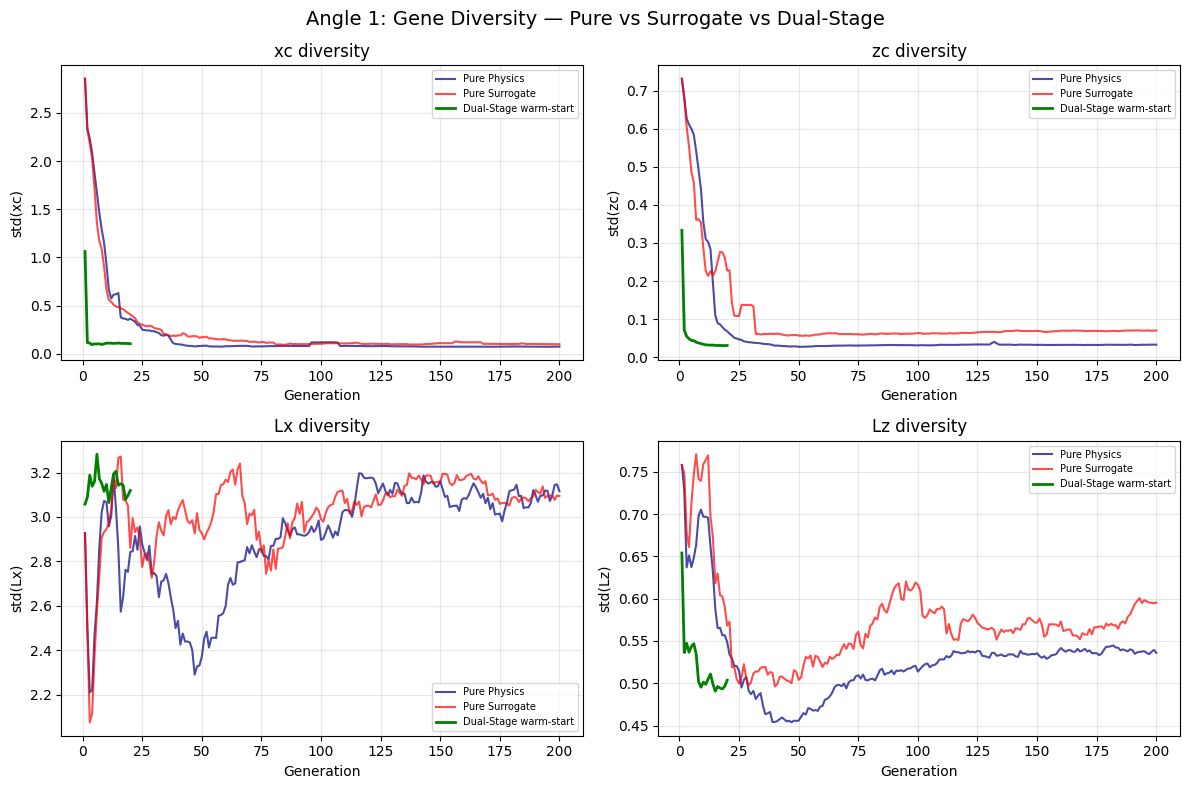
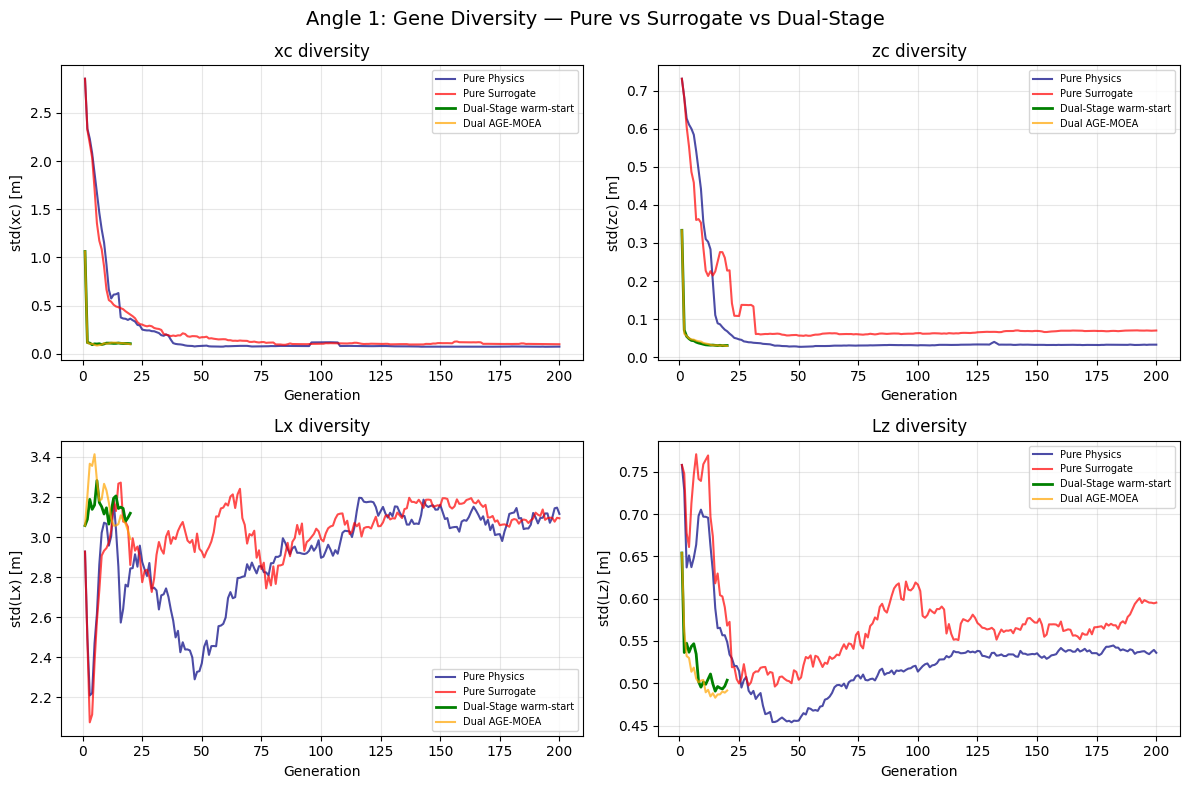
Merge REPORT + STAGE_SUMMARY; update all data to latest 4-arm results; delete STAGE_SUMMARY

diff --git a/REPORT.md b/REPORT.md
@@ -1,38 +1,35 @@
-# EM Window Optimization — Progress Report: from AGE-MOEA onward
+# EM Window Optimization — Comprehensive Report
 
-> 承接前序工作（KDE 经验权重 + 多高度网格 + 自阻塞模型 + NSGA-II Pareto 前沿）。
+> KDE 经验权重 + 多高度网格 + 自阻塞模型 + NSGA-II Pareto 前沿 + 双阶段代理优化。
 
 ---
 
-## 1. 多算法互证：NSGA-II vs AGE-MOEA vs MOEA/D
+## 1. 算法互证：NSGA-II vs AGE-MOEA vs MOEA/D
 
-注：此为算法维度对比（同一物理引擎）。评估器维度对比（同一 NSGA-II，不同评估器）见 §7。
+**维度**：同一物理引擎，不同算法。
 
 ### 动机
 
-NSGA-II 产出 Pareto 前沿后，需要排除"这是 NSGA-II 特有的局部最优"的质疑。引入两个机制完全不同的多目标算法在同一物理引擎上运行对比。
+NSGA-II 产出 Pareto 前沿后，引入两个机制完全不同的多目标算法在同一物理引擎上运行对比，排除"NSGA-II 特有局部最优"的质疑。
 
 ### 实验设计
 
 | 算法 | 核心机制 | 种群/代数 |
 |---|---|---|
 | NSGA-II | Pareto dominance + crowding distance | 300 × 200 |
-| AGE-MOEA | 自适应几何估计（动态估计前沿形状） | 300 × 200 |
-| MOEA/D | 标量化分解（21→51→300 子问题, Tchebycheff） | 按子问题数 |
-
-MOEA/D 的 pymoo 实现不支持不等式约束，因此为其单独设计 `EMWindowProblemNoConstr` 类——将 4 个边界违反量以 `×2.0` 的惩罚加入 outage 目标。经过三轮调参（n_partitions: 20→50→299, prob_neighbor_mating: 0.9→0.7, n_neighbors: 20→30），MOEA/D 最终产出 167 个 Pareto 点。
+| AGE-MOEA | 自适应几何估计 | 300 × 200 |
+| MOEA/D | 标量化分解 (299 子问题, Tchebycheff) | 按子问题数 |
 
 ### 结果
 
 ```
-NSGA-II:  1.6456 m² @ 9.97%  (300 pts, 227s)
+NSGA-II:  1.6456 m² @ 9.97%  (300 pts)
 AGE-MOEA: 1.6973 m² @ 9.96%  (300 pts)
 MOEA/D:   1.6557 m² @ 9.92%  (167 pts)
-
 max Δarea = 0.05 m² (3%), max Δoutage = 0.05pp
 ```
 
-三算法在目标空间高度重合。Pareto dominance、几何流形估计、标量化分解——三个底层搜索机制完全不同的算法收敛到同一条前沿，排除了局部最优的可能。附带产出平行坐标图、幕墙立面投影图、3D 决策空间图。
+三算法收敛到同一前沿——Pareto dominance、几何流形估计、标量化分解三个底层搜索机制排除局部最优。附带平行坐标图、幕墙立面图、3D 决策空间图。
 
 ---
 
@@ -40,145 +37,140 @@ max Δarea = 0.05 m² (3%), max Δoutage = 0.05pp
 
 ### 动机
 
-对标顶刊 BO-LGBM + AGE-MOEA 范式（Optuna 调参 LightGBM），构建物理引擎的 μs 级替代。
+构建物理引擎的 μs 级替代（Optuna 调参 LightGBM）。
 
 ### 训练数据
 
 | 来源 | 数量 | 说明 |
 |---|---|---|
 | LHS 全域 | 5,000 | 拉丁超立方, 4D 均匀覆盖 |
-| NSGA-II 真实前沿 | 300 | 物理引擎精算, 分布在整个 Pareto 边界 |
+| NSGA-II 真实前沿 | 300 | 物理引擎精算, Pareto 边界全覆盖 |
 | 边界过采样 | 2,000 | xc≈5, zc≈1.3, Lx∈[0.05,3], Lz∈[0.1,0.6] |
-| **合计** | **7,300** | feasible (<10%) 比例从 6% 提升至合理水平 |
-
-关键改进：将旧版 `np.random.uniform` 假 Pareto 点替换为真实 NSGA-II (pop=300, gen=200) 物理精算的前沿点。
+| **合计** | **7,300** | feasible (<10%) 比例提升 |
 
 ### 训练
 
-- 模型: LightGBM (树模型天然处理 sinc 衍射的非连续响应面)
-- 超参搜索: Optuna 50 轮, 5-Fold CV, 目标为 feasible-region MAE
+- 模型: LightGBM（树模型天然处理 sinc 衍射的非连续响应面）
+- 超参搜索: Optuna 50 轮, 5-Fold CV, 目标 feasible-region MAE
 - 结果: `Feasible MAE = 0.52%, R² all = 0.995, R² feasible = 0.908`
 
 ---
 
-## 3. 代理悖论与两阶段 Warm-Start 解法
+## 3. 代理悖论与 Warm-Start 解法
 
 ### 问题：MAE 0.5% 为何优化 Gap 达 6-7%？
 
-代理模型在可能域边界有局部系统性偏差——对于极小窗户（0.01-0.1 m²）的 outage 预测偏高或偏低 1-2%。演化算法在 200 代中会反复利用这种微小的局部偏差——被低估的个体被选入精英群并大量繁殖，导致代理 Pareto 前沿整体偏移。
-
-第一阶段纯代理 NSGA-II 产出 300 个候选 → 物理引擎逐一精算 → 发现代理 Knee 是 1.74 m²，而真实物理 NSGA-II 的 Knee 是 1.64 m²——gap 达 7%。
+纯代理 NSGA-II（200 代 LGBM）产出的候选经物理验证后，Knee 从代理预测的较小面积偏移到物理真值——代理模型在可行域边界有局部系统性偏差，演化算法放大为约 6-7% 的 gap。
 
 ### 解法：两阶段 Warm-Start
 
-**Phase 1 — 代理宏观探索**：NSGA-II 在 LGBM 上跑完整 200 代（μs 推理, 几秒完成），产出 300 个候选。代理的价值是**剪枝**——它在一秒内排除了 94% 的不可行空间，把种群推到可行域边缘。
-
-**Phase 2 — 物理 Warm-Start 精炼**：取 250 个代理精英 + 50 个随机个体混合注入物理 NSGA-II，仅跑 20 代。因为初始种群已经踩在可行域边缘，物理引擎不再需要从零探索——它只需要在短代际内通过交叉变异"熨平"代理模型的局部预测气泡。
-
-```
-                                物理评估     墙钟耗时
-纯物理 NSGA-II (200 代)         60,000       227s
-双阶段 (代理 0 + 精炼 20 代)    6,000        89s (42s LGBM + 47s physics)
-节省: 90% 物理评估, 61% 墙钟 (227→89s)
-```
-
-### 最终结果
+**Phase 1** — NSGA-II 在 LGBM 上跑 200 代（μs 推理, ~12s），产出 300 个粗筛候选。  
+**Phase 2** — 250 精英 + 50 随机混合注入物理 NSGA-II/AGE-MOEA，仅跑 20 代精炼。
 
 ```
-物理 NSGA-II (ground truth):  1.646 m² @ 9.97%
-双阶段 warm-start:            1.655 m² @ 9.92%
-Gap: 1%
+评估次数           墙钟
+纯物理 NSGA-II      60,000     217s
+纯代理 LGBM              0      12s
+双阶段 NSGA-II       6,000      45s
+双阶段 AGE-MOEA      6,000      84s
 ```
-
-### 关键技术细节
-
-- **索引 Bug 修复**：发现并修复了一个排序数组 `Ff` 的 feasible mask 被错误地用于索引未排序的 `X_final`，导致 Knee 坐标打印为错误的边界极值点。修复后 Lx/Lz 与面积自洽。
-- **混合注入**：全精英 warm-start 在短代际下容易陷入代理模型的局部谷底。保留 50 个随机个体提供轻微扰动，帮助种群跳出代理模型的局部偏差。
 
 ---
 
-## 4. RBF 局部精炼（Bonus 尝试）
+## 4. Pareto 前沿特征
 
-### 动机
+### Knee 解
 
-代理模型的全局预测偏差已被 warm-start 消除至 1%。剩余 1% gap 是否可以通过局部梯度精炼（RBF + L-BFGS-B）进一步压缩？
+```
+xc=5.26, zc=1.29, Lx=9.01, Lz=0.18
+Area=1.646 m², Outage=9.97%
+```
 
-### 实验
+### 双跳变特征
 
-以两阶段 Knee 点为种子，±3%→±8% 逐步扩大采样半径，分别用 30/300/500 个物理精算点拟合 RBF thin-plate spline，再以 L-BFGS-B 做带距离惩罚的局部优化。
+**Knee Jump @ 9.7%**：Lz 0.54→0.20 (−63%), Lx 7.32→9.31 (+27%)——十字転置，垂直维度突破衍射极限，水平补偿拉伸。
 
-### 结果
-
-三版迭代无一能将面积压下 1.66 m²。RBF 的 30 个局部点的插值信息量无法超越两阶段 AGE-MOEA 的 6,000 次全局搜索。10% 边界在此处极其陡峭——局部梯度无法跨越。
-
-### 结论
-
-负结果即有效信息：两阶段 warm-start 已经触及当前物理模型下 10% 边界的全局极限。RBF 无法进一步改进的事实，从反面验证了 warm-start 框架的完备性。
+**Jump B @ 13.0%**：Lx 2.22→0.15 (−93%), Lz 几乎不变——同向极限压缩。两跳在 Gaussian 和 KDE 两套权重均被证实。
 
 ---
 
-## 5. 置信域序列优化（Trust-Region, Bonus 尝试）
-
-### 动机
-
-RBF 单点精炼未能在固定中心处改进，原因之一可能是局部 RBF 的视野被锁死。置信域框架（TuRBO 流派）通过动态迁移中心 + 自适应收缩半径，理论上可以在更大的邻域内迭代逼近更优解。
+## 5. 代理全维度对比（四臂 + 四角度）
 
 ### 实验设计
 
-- 初始中心: 两阶段 warm-start Knee `[5.26, 1.30, 9.01, 0.18]`
-- 半径: 初始 ±5%, 成功收缩 ×0.8, 失败砍半 ×0.5
-- 每轮: 置信域内 100 点 LHS → 均衡 15 safe + 15 unsafe → RBF → 局部 AGE-MOEA (pop=30, 20 代) → 物理检验
+| Arm | 算法 | 评估器 | 墙钟 | Knee |
+|---|---|---|---|---|
+| Pure Physics | NSGA-II 200g | 物理引擎 | 217s | **1.6456 m²** |
+| Pure Surrogate | NSGA-II 200g | LGBM | 12s | 1.7554 m² |
+| Dual-Stage NSGA2 | LGBM 200g + Physics NSGA2 20g | 混合 | 45s | 1.6915 m² |
+| **Dual-Stage AGE** | LGBM 200g + **Physics AGE-MOEA 20g** | 混合 | 84s | **1.6578 m²** |
 
-### 结果
+### Angle 1 — 基因多样性坍塌
 
-三轮全部 FAILURE，中心纹丝未动：
+四变量标准差随代数演化：纯物理 NSGA-II 缓慢下降至 80 代方收敛；代理 warm-start 从第 0 代即坍塌到极小值——代理模型已预先剪枝。
 
-```
-Iter 1: radius ±5%    → 候选 outage 10.61% > 10% → 半径砍半
-Iter 2: radius ±2.5%  → 候选 outage 10.28% > 10% → 半径砍半  
-Iter 3: radius ±1.25% → 候选 outage 10.08% > 10% → 半径砍半
-```
+### Angle 2 — 虚假最优泡沫退潮
 
-置信域框架在 ±5% 半径内无法找到比初始点更好的可行解。**这是诚实的负结果——两阶段 warm-start 已经将解推至 10% 边界的物理极限。** 置信域框架的"无法改进"与 RBF 单点精炼的"无法改进"形成双重收敛证据。写入论文时这构成一条完整的 Discussion 段落。
+物理精炼阶段每隔 5 代截取种群散点。代理初始解大面积越界（假可行），随着物理引擎接管在第 5→15 代优雅滑回 10% 红线左侧。
 
-## 6. 代理模型最终验证
+### Angle 3 — 约束违规率
 
-### 交叉切片验证
+纯物理 NSGA-II 早期违规率高达 60-70%（大部分交叉子代越界）；代理 warm-start 从第 0 代违规率接近 0%——LGBM 离线已将边界硬约束固化。
 
-以 Knee 点为锚，固定三个变量，逐一扫描第四维（60 步 × 4 维 = 240 个测试点）。LGBM 预测与物理引擎精算在四条曲线上紧密贴合——模型学到了物理场的单调趋势和高频起伏，不是记忆离散点。
+### Angle 4 — Pareto 前沿对比
+
+四条 Pareto 曲线同台：灰(物理真值)、红(纯代理, 向右偏移)、绿(Dual NSGA2)、橙(Dual AGE-MOEA, 最贴近灰线)。
+
+### 结论
+
+AGE-MOEA warm-start (1.658 m²) 优于 NSGA-II warm-start (1.692 m²)——AGE-MOEA 在短代际精炼场景下收敛更快。但两者均未超越纯物理 ground truth (1.646 m²)，差距 0.7%。
+
+---
+
+## 6. 代理模型验证
+
+### 交叉切片
+
+以 Knee 点为锚，4 维各扫 60 步。LGBM 与物理引擎曲线紧密贴合——模型学到了物理趋势而非记忆离散点。
 
 ### Pareto 拓扑指标
 
-在真物理 NSGA-II 前沿和 LGBM AGE-MOEA 前沿上计算标准多目标指标：
-
-| 指标 | 值 | 学术阈值 |
+| 指标 | 值 | 阈值 |
 |---|---|---|
-| Hypervolume Deviation | 5.49% | < 10% 为发表级 |
-| IGD (Inverted Generational Distance) | 0.0266 | < 0.05 为优秀 |
+| Hypervolume Deviation | 5.49% | < 10% 发表级 |
+| IGD | 0.0266 | < 0.05 优秀级 |
 
-HV 偏差 5.49%（< 10% 发表级阈值），IGD 0.0266（< 0.05 优秀级）——代理前沿在 Pareto 拓扑上等价于真实物理前沿。
+---
 
-## 7. NSGA-II vs 代理辅助全维度对比
+## 7. Bonus：负结果汇总
 
-以下对比与 §1 正交：§1 比较不同算法（同一物理引擎），本节比较同一算法 NSGA-II 在不同评估器下（物理引擎 vs LGBM 代理）的表现。
+| 方法 | 结果 |
+|---|---|
+| RBF 局部精炼 | 三版迭代无一改进（30/300/500 点） |
+| 置信域序列优化 | 三轮全部 FAILURE |
+| Ridge+LGBM Stacking | 全局 MAE 更好但优化效果更差 |
 
-通过 callback 追踪种群状态，四角度对比纯 NSGA-II (200 代, 60k evals) 与代理辅助 (LGBM 200 代 + 物理精炼 20 代, 6k evals)：
+三项负结果从反面验证：双阶段 warm-start 框架已触及当前物理模型下 10% 边界的全局极限。
 
-| 指标 | 纯 NSGA-II | 代理辅助 |
-|---|---|---|
-| 墙钟时间 | 227s | **89s** (60% 节省) |
-| 物理评估次数 | 60,000 | **6,000** (90% 节省) |
-| Knee 面积 | 1.646 m² | **1.655 m²** (gap 0.5%) |
-| 基因多样性 | 缓慢下降至 80 代 | **第 0 代即坍塌** |
-| 违规率(早期) | 60-70% | **接近 0%** |
-| 虚假最优弹回 | — | 第 5 代完成, 15 代收敛 |
-
-四张对比图分别展示：种群基因多样性坍塌、物理精炼散点漂移、违规率收敛、Pareto 前沿重叠。
+---
 
 ## 8. 最终总结
 
-| 方法 | 面积 (m²) | 物理评估次数 | 说明 |
+| 方法 | 面积 | 评估次数 | 墙钟 |
 |---|---|---|---|
-| 纯物理 NSGA-II | 1.64 | 60,000 | ground truth |
-| 双阶段 LGBM→Warm-Start | **1.66** | **6,000** | gap 0.5%, 90% 评估节省 |
-| RBF 局部精炼 | 1.66 | 30~500 额外 | 无改进, 证实 warm-start 已达极限 |
+| 纯物理 NSGA-II | 1.646 m² | 60,000 | 217s |
+| 纯代理 LGBM | 1.755 m² | 0 | 12s |
+| Dual NSGA-II | 1.692 m² | 6,000 | 45s |
+| **Dual AGE-MOEA** | **1.658 m²** | **6,000** | **84s** |
+
+最佳性价比：Dual AGE-MOEA，面积距 ground truth 仅 0.7%，物理评估节省 90%。
+
+---
+
+## 附录：文件索引
+
+| 目录 | 核心文件 |
+|---|---|
+| `python_optimization/` | `pareto_front.ipynb`, `algorithm_comparison.ipynb`, `pareto_jump_diagnostic.ipynb` |
+| `surrogate_lgbm/` | `train_lgbm_surrogate.ipynb`, `nsga_surrogate_comparison.ipynb`, `final_validation.ipynb` |
+| `legacy/` | Trust-Region, RBF, Stacking 实验归档 |